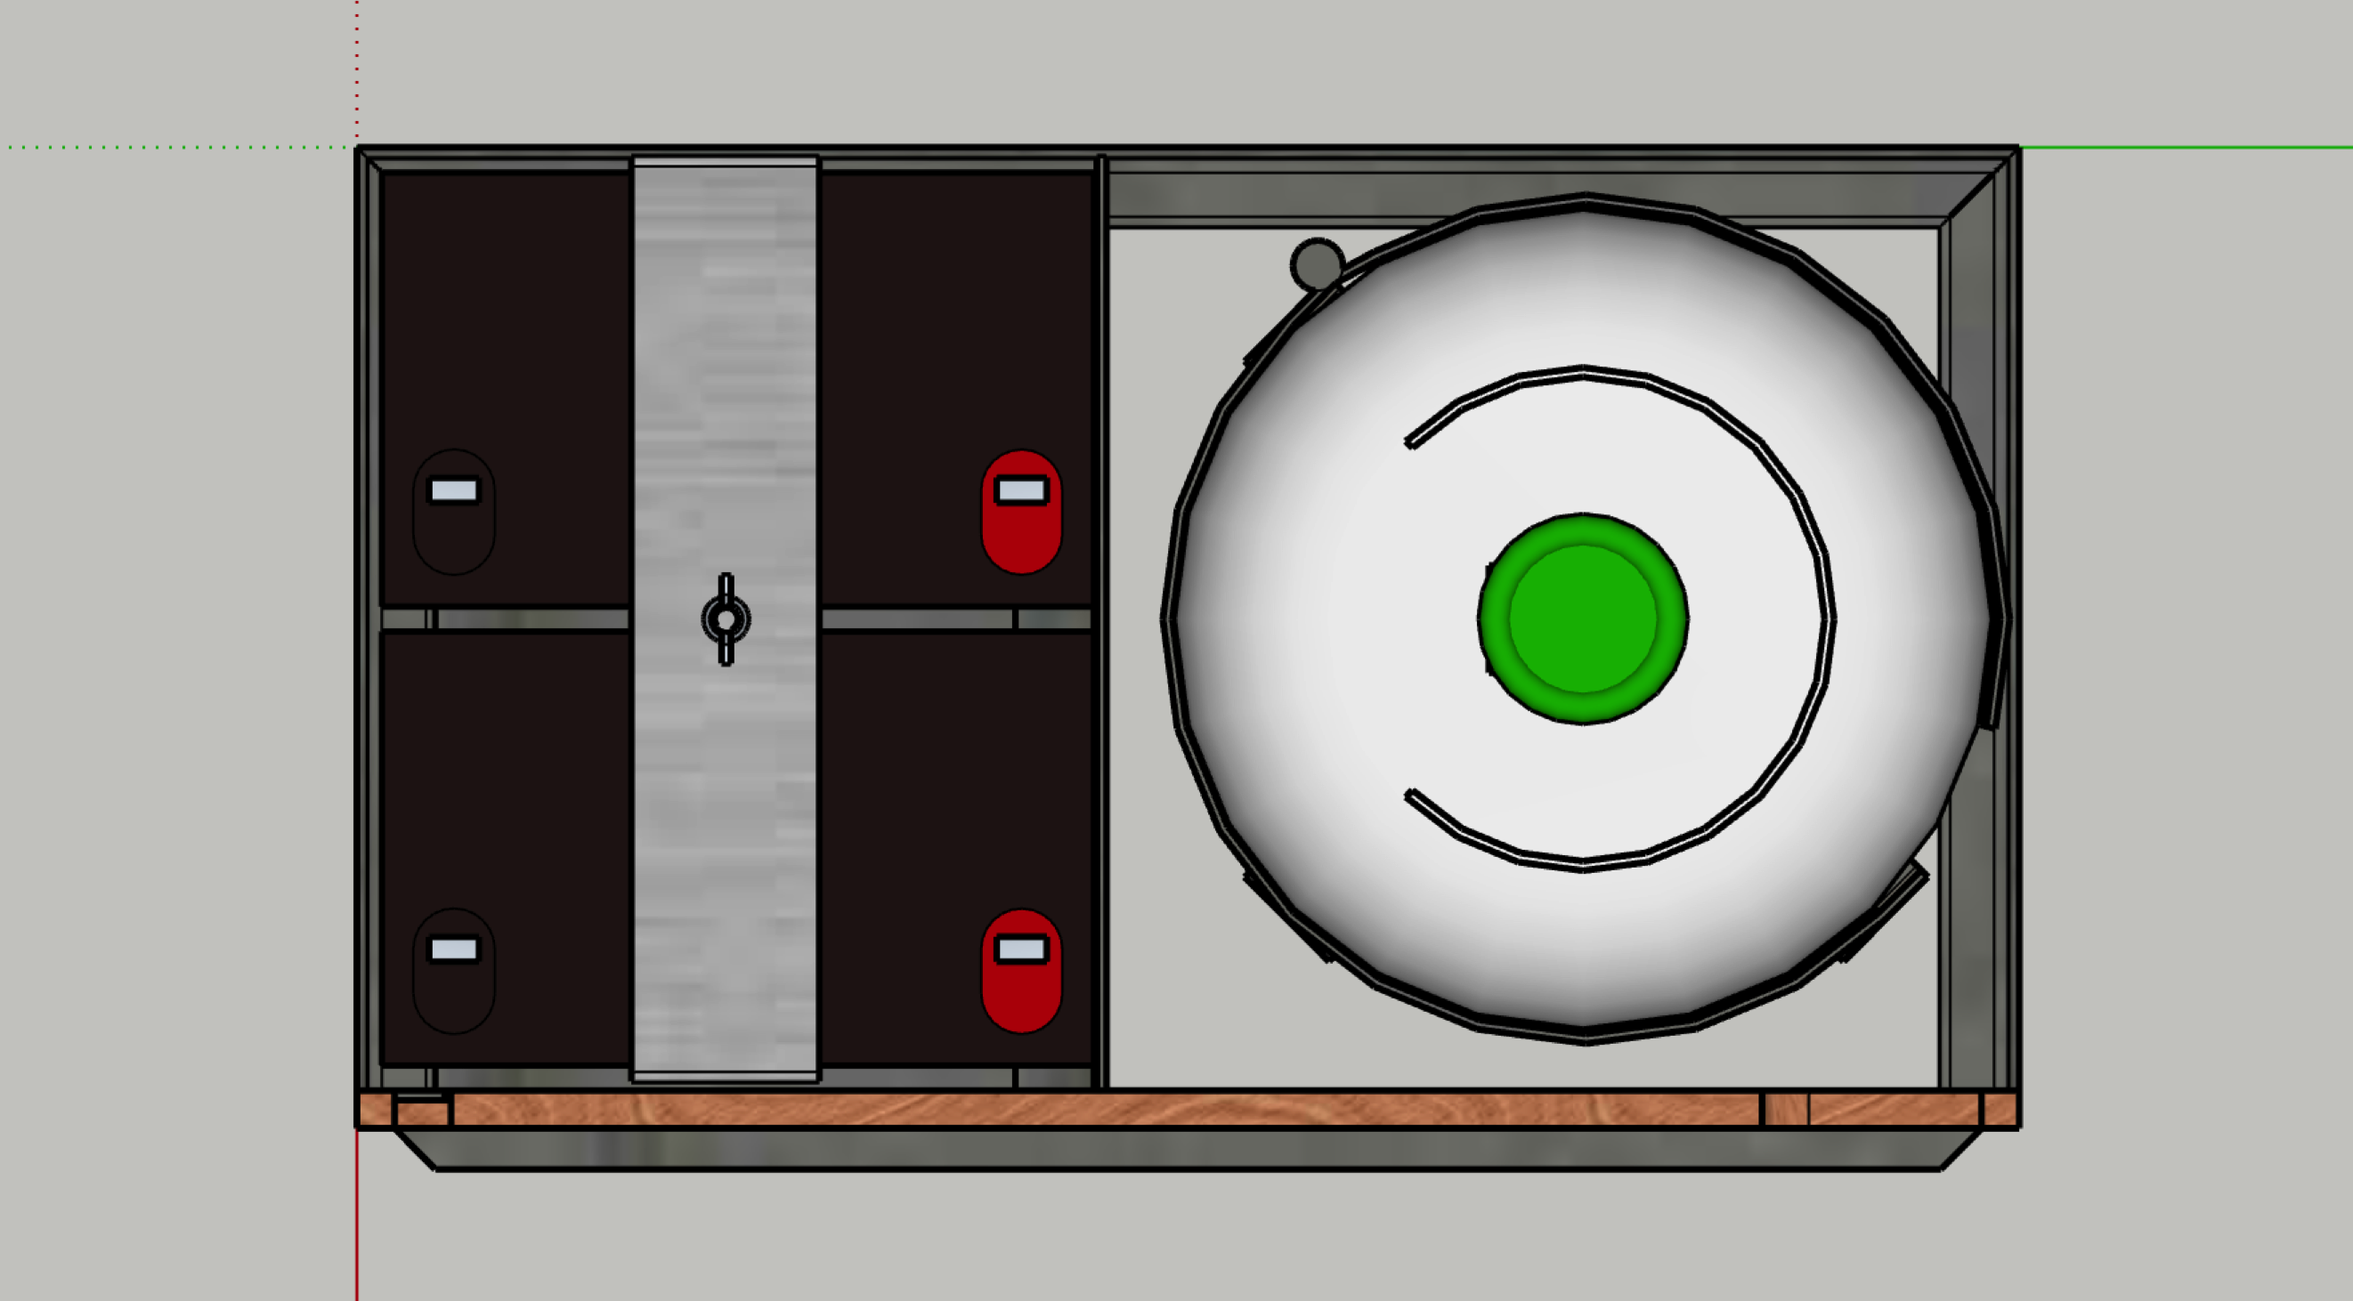
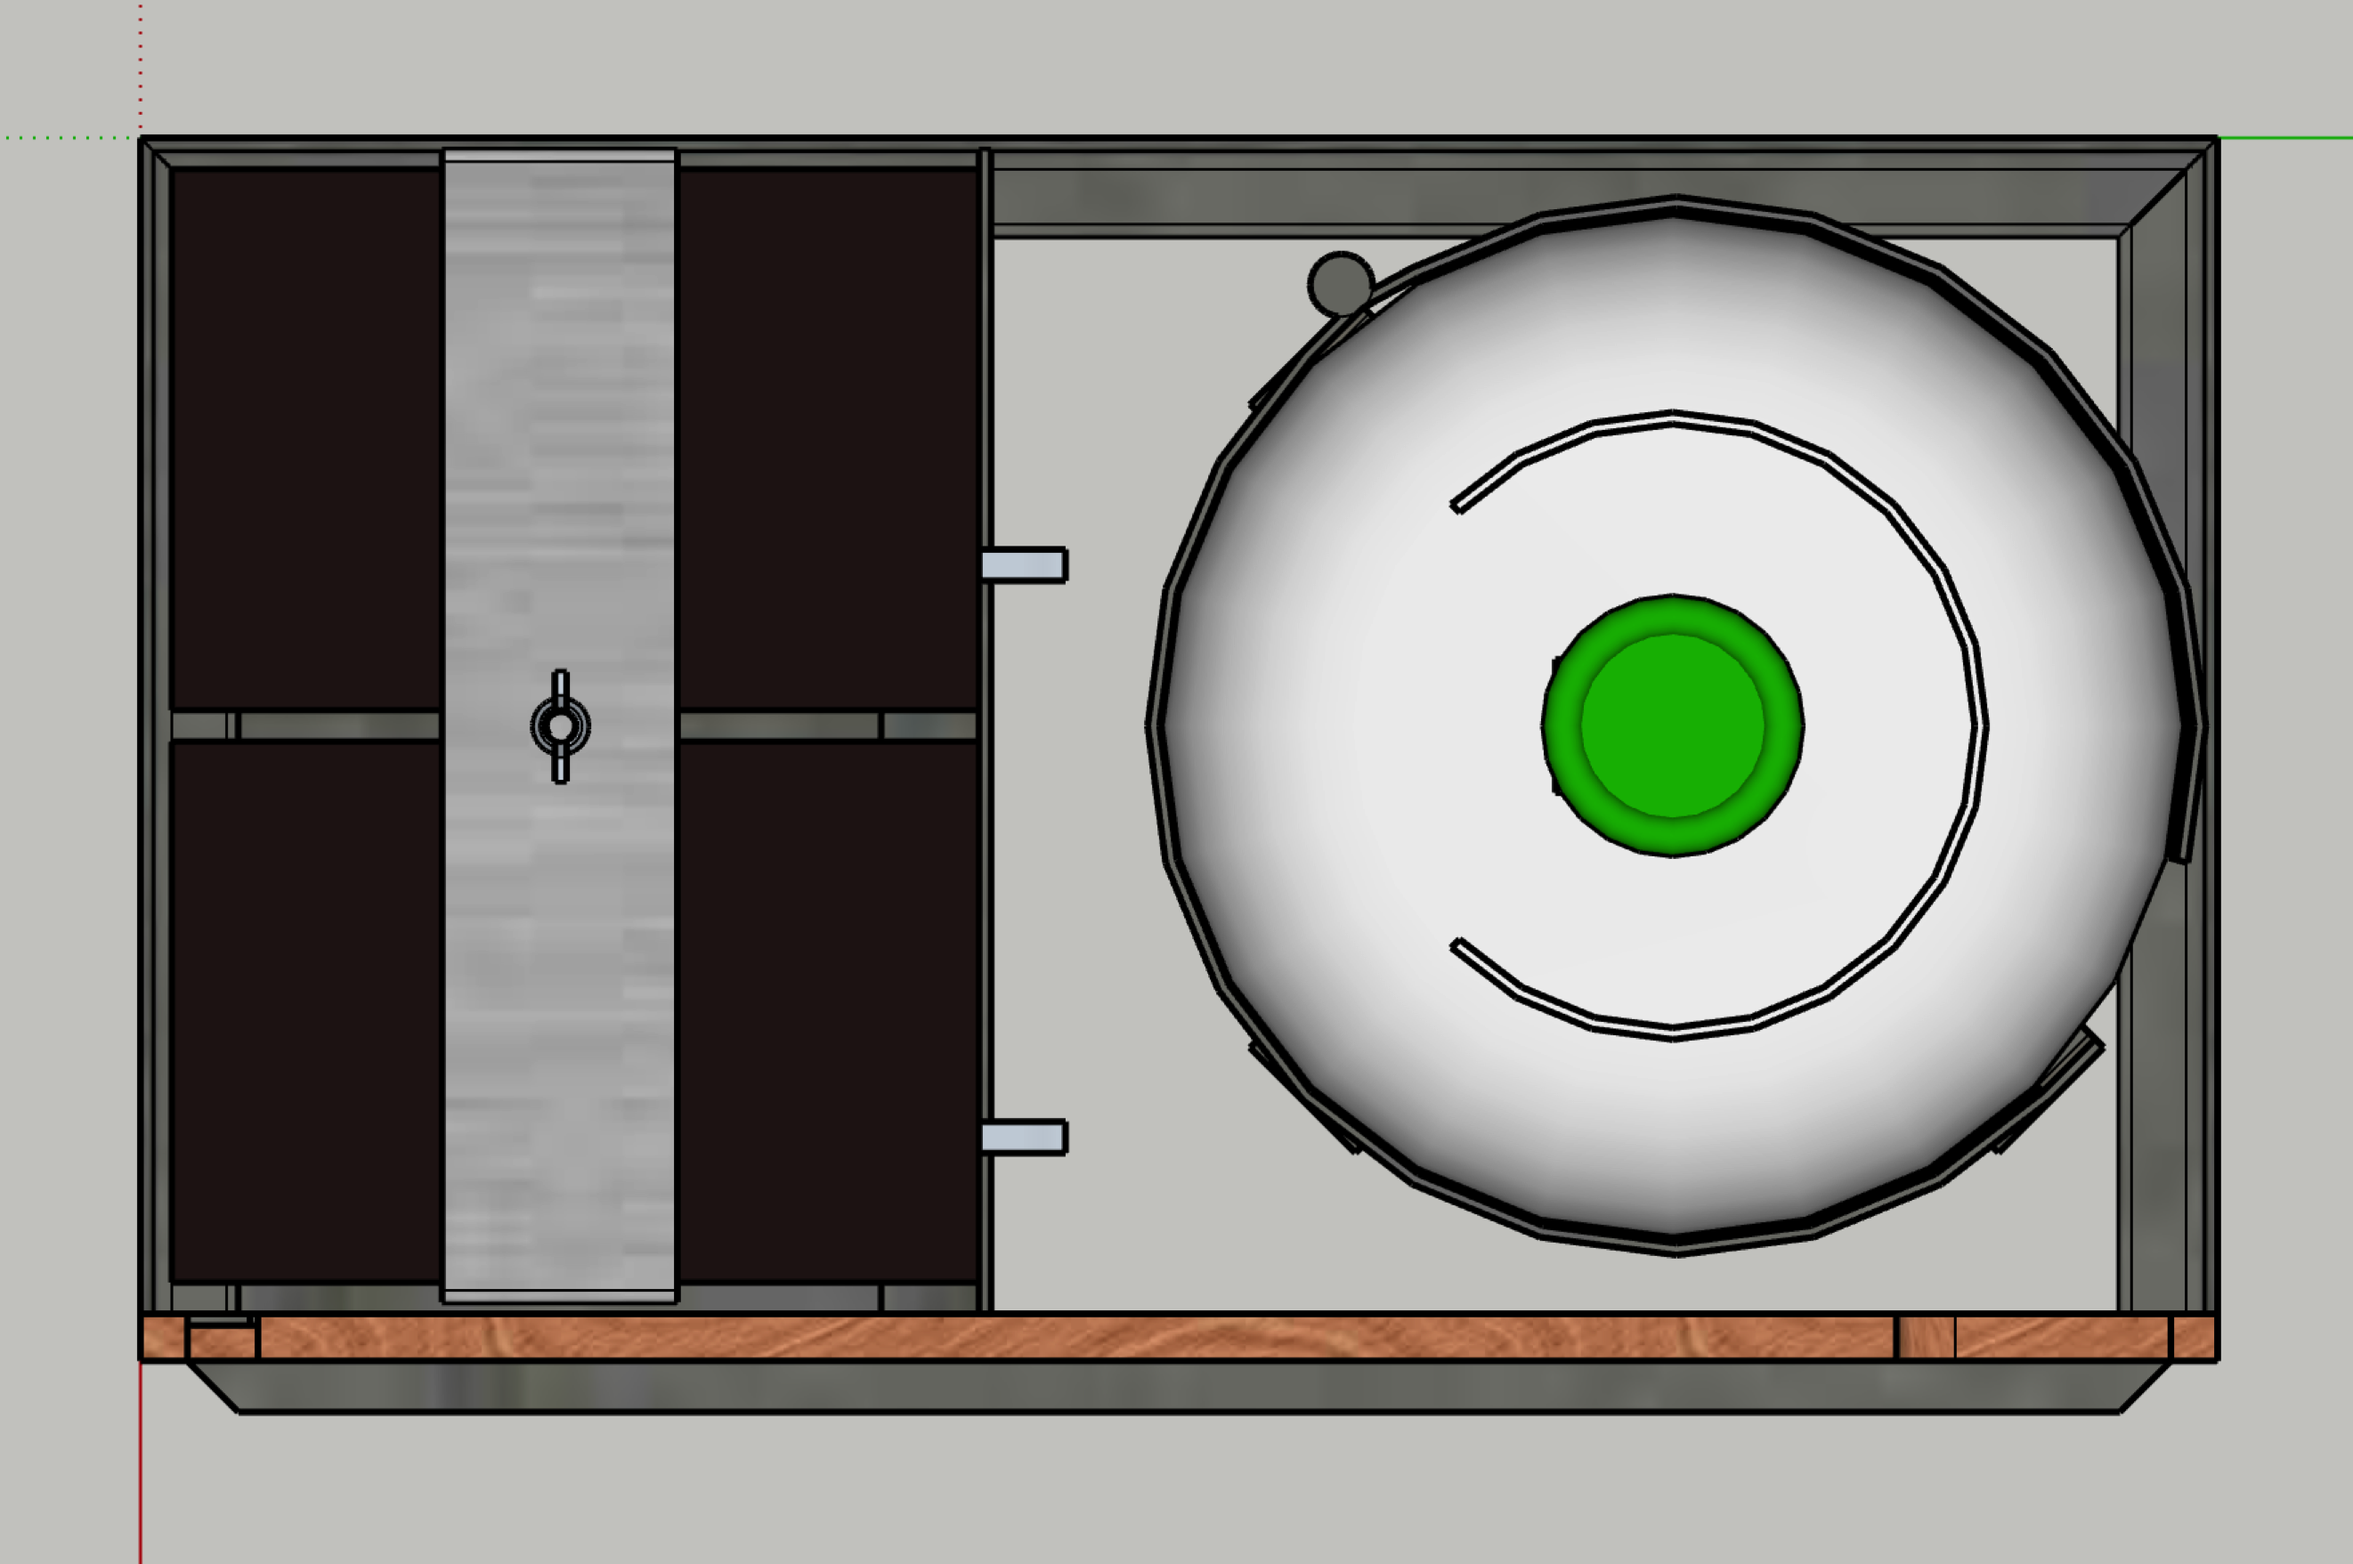
Update Frame docs.

diff --git a/docs/Frame.md b/docs/Frame.md
@@ -1,56 +1,49 @@
 # Frame
 
-[![01 Frame Front](Frame/01-Frame-Front.png)](_PDF/Frame/01-Frame-Front.pdf "01 Frame Front")
-[![02 Frame Back](Frame/02-Frame-Back.png)](_PDF/Frame/02-Frame-Back.pdf "02 Frame Back")
-[![03 Bottom Frame](Frame/03-Bottom-Frame.png)](_PDF/Frame/03-Bottom-Frame.pdf "03 Bottom Frame")
-[![04 Front Frame](Frame/04-Front-Frame.png)](_PDF/Frame/04-Front-Frame.pdf "04 Front Frame")
-[![05 Back Frame](Frame/05-Back-Frame.png)](_PDF/Frame/05-Back-Frame.pdf "05 Back Frame")
-[![06 Energy Subframe FL](Frame/06-Energy-Subframe-FL.png)](_PDF/Frame/06-Energy-Subframe-FL.pdf "06 Energy Subframe FL")
-[![07 Energy Subframe FR](Frame/07-Energy-Subframe-FR.png)](_PDF/Frame/07-Energy-Subframe-FR.pdf "07 Energy Subframe FR")
-[![08 Energy Subframe Plan View](Frame/08-Energy-Subframe-Plan-View.png)](_PDF/Frame/08-Energy-Subframe-Plan-View.pdf "08 Energy Subframe Plan View")
-[![09 Energy Subframe 2 Plan View](Frame/09-Energy-Subframe-2-Plan-View.png)](_PDF/Frame/09-Energy-Subframe-2-Plan-View.pdf "09 Energy Subframe 2 Plan View")
+[![01 Frame Front](Frame/01-Frame-Front.png)](Frame/01-Frame-Front.pdf "01 Frame Front")
+[![02 Frame Back](Frame/02-Frame-Back.png)](Frame/02-Frame-Back.pdf "02 Frame Back")
 
-Rectangular hollow, 25 x 25 mm angle, & 16 x 3 mm flat bar, steel.
+Made principally from…
 
-
-[![01 Frame Front](Frame/01-Frame-Front.png)](_PDF/Frame/01-Frame-Front.pdf)
-[![02 Frame Back](Frame/02-Frame-Back.png)](_PDF/Frame/02-Frame-Back.pdf)
+* 25x25 mm RHS
+* 15x15 mm RHS
+* 16x3 mm flat steel
+* 25x3 mm flat steel
 
 ## Bottom Frame
 
-[![03 Bottom Frame](Frame/03-Bottom-Frame.png)](_PDF/Frame/03-Bottom-Frame.pdf)
+[![03 Bottom Frame](Frame/03-Bottom-Frame.png)](Frame/03-Bottom-Frame.pdf "03 Bottom Frame")
 
-All 25x25 RHS. Bottom rails, 1300 mm long, spaced 475 mm apart with cross members as shown. Drawn with mitred end joins but don’t have to be joined that way. Butt joins would make a cutting list of just 2 x 25x25 RHS 1300 mm long, & 4 x 25x25 RHS 480 mm long.
-
-A mount for a reversing light might be required. That is drawn as 23x3 flat, 30 mm long, with an 8 mm hole in the centre. The hole could be further inside the frame.
+* All 25x25 RHS.
+* Bottom rails, 1300 mm long, spaced 480 mm apart.
+* Cross members, 480 mm long, positioned as shown.
 
 ## Front & Back Frames
 
 [![04 Front Frame](Frame/04-Front-Frame.png)](_PDF/Frame/04-Front-Frame.pdf)
 [![05 Back Frame](Frame/05-Back-Frame.png)](_PDF/Frame/05-Back-Frame.pdf)
 
-The front & back frames are mirror images of each other with 3 differences…
+The front & back frames are mirror images of each other with some differences.
 
-* The front frame is 100 mm taller,
-* The front frame has an additional vertical member at the LH end.
-* The back frame has a number plate mount attached.
-
-Both frames…
-
-* Have top members of 15x15 RHS 1582 long.
+* Top members of 15x15 RHS, 1582 long.
 * Assembled flush to the outside face.
 * Have vertical members of 16x3 flat attached as shown.
 
-Vertical members are 548 mm for the front frame & 448 mm for the back frame, for overall heights of 563 mm & 463 mm.
+### Front Frame
 
-Numbering the vertical members 1 being the additional vertical on the front frame & 5 being the RH vertical, the spacing between 1 & 2 should be equal to the spacing between 3 & 4 (so that there is only one width of drawer).
+* Vertical members are 548 mm for an overall height of 563 mm.
+* Has an additional vertical member, 185 mm long, attached *under* the LH end.
 
-The additional vertical on the front frame is 185 mm & attached under the LH end.
+### Back Frame
 
-The number plate mount to be attached as shown, flush to the outside face with the return facing inward.
+* Vertical members are 448 mm for an overall height of 463 mm.
+* Has a number plate mount attached as shown.
+* Has a 45° diagonal brace as shown.
 
-[![01 Number Plate Mount Top](Sheet-Metal/01-Number-Plate-Mount-Top.png)](_PDF/Sheet-Metal/01-Number-Plate-Mount-Top.pdf)
-[![02 Number Plate Mount Back](Sheet-Metal/02-Number-Plate-Mount-Back.png)](_PDF/Sheet-Metal/02-Number-Plate-Mount-Back.pdf)
+### Number Plate Mount
+
+[![01 Number Plate Mount Top](Sheet-Metal/01-Number-Plate-Mount-Top.png)](Sheet-Metal/01-Number-Plate-Mount-Top.pdf "01 Number Plate Mount Top")
+[![02 Number Plate Mount Back](Sheet-Metal/02-Number-Plate-Mount-Back.png)](Sheet-Metal/02-Number-Plate-Mount-Back.pdf "02 Number Plate Mount Back")
 
 ## Energy Subframe
 
@@ -61,7 +54,7 @@ A subframe to support gas bottle & batteries.
 
 Three sides of a rectangle 530 mm (one side) x 300 mm (both sides), made of 25x25 angle, as shown.
 
-Plan views of the energy subframe with horizontal & vertical betteries…
+Plan views of the energy subframe with horizontal & vertical batteries…
 
 [![08 Energy Subframe Plan View](Frame/08-Energy-Subframe-Plan-View.png)](_PDF/Frame/08-Energy-Subframe-Plan-View.pdf)
 [![09 Energy Subframe v2 Plan View](Frame/09-Energy-Subframe-2-Plan-View.png)](_PDF/Frame/09-Energy-Subframe-2-Plan-View.pdf)
@@ -101,9 +94,6 @@ The 25 mm cross member runs horizontally between the LH pair of verticals, at a 
 
 The energy rack is attached to the LH end of the bottom frame.
 
-[![01 Frame Front](Frame/01-Frame-Front.png)](Frame/01-Frame-Front.pdf "01 Frame Front")
-[![02 Frame Back](Frame/02-Frame-Back.png)](Frame/02-Frame-Back.pdf "02 Frame Back")
-[![03 Bottom Frame](Frame/03-Bottom-Frame.png)](Frame/03-Bottom-Frame.pdf "03 Bottom Frame")
 [![04 Front Frame](Frame/04-Front-Frame.png)](Frame/04-Front-Frame.pdf "04 Front Frame")
 [![05 Back Frame](Frame/05-Back-Frame.png)](Frame/05-Back-Frame.pdf "05 Back Frame")
 [![06 Energy Subframe FL](Frame/06-Energy-Subframe-FL.png)](Frame/06-Energy-Subframe-FL.pdf "06 Energy Subframe FL")
